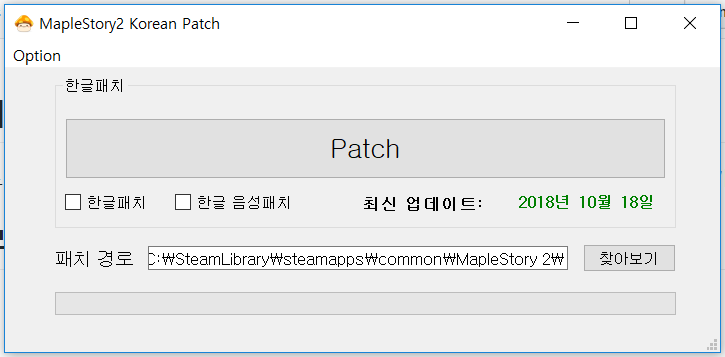
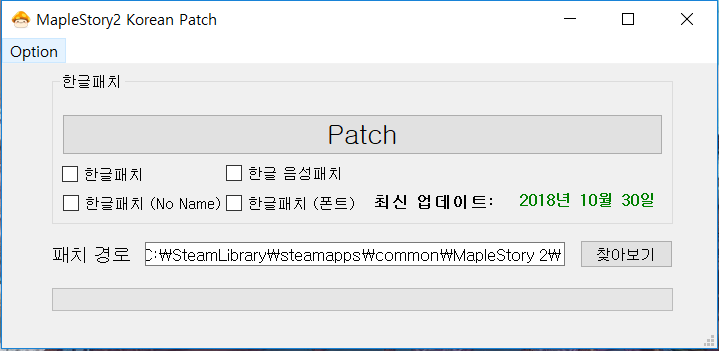
1.01 version update

diff --git a/main.py b/main.py
@@ -18,16 +18,19 @@ class PatchTread(QThread):
     change_message = pyqtSignal(str)
     change_visible = pyqtSignal(bool)
 
-    def __init__(self, directory, progress, kor_patch_checkBox, kor_sound_patch_checkBox, option_url, kor_patch_url, kor_sound_patch_url):
+    def __init__(self, directory, progress, kor_kind_patch_checkBox, patch_index, kor_sound_patch_checkBox, option_url, patch_url_list):
         QThread.__init__(self)
         self.setup_directory = directory + "Data\\"
         self.progress = progress
-        self.progress2 = 0
-        self.kor_patch = kor_patch_checkBox
+
+        self.kor_patch = kor_kind_patch_checkBox
         self.kor_sound_patch = kor_sound_patch_checkBox
+        self.kor_sound_boolean = False
+
         self.option_url = option_url
-        self.kor_patch_url = kor_patch_url
-        self.kor_sound_patch_url = kor_sound_patch_url
+        self.patch_url_list = patch_url_list
+
+        self.patch_index = patch_index
 
     def __del__(self):
         self.wait()
@@ -35,40 +38,35 @@ class PatchTread(QThread):
     def run(self):
         print("Setup_directory: " + self.setup_directory)
         print("option_url: " + self.option_url)
-        print("kor_patch_url: " + self.kor_patch_url)
-        print("kor_sound_patch_url: " + self.kor_sound_patch_url)
+        print("kor_patch_url: " + self.patch_url_list[0])
+        print("kor_noname_patch_url: " + self.patch_url_list[1])
+        print("kor_font_patch_url: " + self.patch_url_list[2])
+        print("kor_sound_patch_url: " + self.patch_url_list[3])
         self.change_visible.emit(False)
         self.download()
         self.change_visible.emit(True)
 
+    def download_url(self, url):
+        self.change_message.emit('파일 다운로드 중 ...')
+        urllib.request.urlretrieve(url, self.setup_directory + "kor_patch.zip",
+                                   reporthook=self.dlProgress)
+        self.patch_process(self.setup_directory)
+
+
     def download(self):
         if os.path.exists(self.setup_directory):
             if self.kor_patch.isChecked() and self.kor_sound_patch.isChecked():
-                self.change_message.emit('파일 다운로드 중 ...')
-                urllib.request.urlretrieve(self.kor_patch_url, self.setup_directory + "kor_patch.zip",
-                                           reporthook=self.dlProgress)
-                self.patch_process(self.setup_directory)
-                self.change_message.emit('파일 다운로드 중 ...')
-                urllib.request.urlretrieve(self.kor_sound_patch_url, self.setup_directory + "kor_patch.zip",
-                                           reporthook=self.dlProgress)
-                self.patch_process(self.setup_directory)
-
+                self.download_url(self.patch_url_list[self.patch_index])
+                self.kor_sound_boolean = True
+                self.download_url(self.patch_url_list[3])
                 self.progress = 100
                 self.change_value.emit(self.progress)
             elif self.kor_patch.isChecked():
-                self.change_message.emit('파일 다운로드 중 ...')
-                urllib.request.urlretrieve(self.kor_patch_url, self.setup_directory + "kor_patch.zip",
-                                           reporthook=self.dlProgress)
-                self.patch_process(self.setup_directory)
-
+                self.download_url(self.patch_url_list[self.patch_index])
                 self.progress = 100
                 self.change_value.emit(self.progress)
             elif self.kor_sound_patch.isChecked():
-                self.change_message.emit('파일 다운로드 중 ...')
-                urllib.request.urlretrieve(self.kor_sound_patch_url, self.setup_directory + "kor_patch.zip",
-                                           reporthook=self.dlProgress)
-                self.patch_process(self.setup_directory)
-
+                self.download_url(self.patch_url_list[3])
                 self.progress = 100
                 self.change_value.emit(self.progress)
         else:
@@ -76,21 +74,24 @@ class PatchTread(QThread):
 
     def dlProgress(self, count, blockSize, totalSize):
         # 다운로드 header 파일이 없을 경우 임의로 totalSize를 정해줌
+        language_totalSize = 130000000
+        sound_totalSize = 680000000
 
         if self.kor_patch.isChecked() and self.kor_sound_patch.isChecked():
-            # print(totalSize)
-            if totalSize >= 300000000:
-                percent = abs(int(count * blockSize * 100 / totalSize) / 2.4) + 42
+            if self.kor_sound_boolean:
+                percent = abs(int(count * blockSize * 100 / sound_totalSize) / 2.4) + 42
             else:
-                percent = abs(int(count * blockSize * 100 / totalSize) / 2.4)
-        else:
-            percent = abs(int(count * blockSize * 100 / totalSize) / 1.2)
+                percent = abs(int(count * blockSize * 100 / language_totalSize) / 2.4)
+        elif self.kor_patch.isChecked():
+            percent = abs(int(count * blockSize * 100 / language_totalSize) / 1.2)
+        elif self.kor_sound_patch.isChecked():
+            percent = abs(int(count * blockSize * 100 / sound_totalSize) / 1.2)
         # print(count, blockSize, totalSize, count * blockSize)
+
         while self.progress <= percent:
             self.progress += 1
             print("progress: ", self.progress)
             self.change_value.emit(self.progress)
-
 
     def patch_process(self, directory_):
         print("patch_process")
@@ -107,18 +108,23 @@ class PatchTread(QThread):
 
 form_class = uic.loadUiType("maplestory2.ui")[0]
 
+
 class MyWindow(QMainWindow, form_class):
     def __init__(self):
         super().__init__()
         self.setWindowIcon(QIcon('icon.png'))
-        self.version = "1.0"
-        self.kor_patch_url = "https://www.dropbox.com/s/scepv8sk3dd27er/Xml.zip?dl=1"
+        self.version = "1.01"
+        self.kor_patch_url = "https://drive.google.com/uc?export=download&id=1tw1_tzCViJkiXsrRepdwBuYK3g-KMJwF"
+        self.kor_noname_patch_url = "https://drive.google.com/uc?export=download&id=1yfXf--tfYAzvth9OWhCuEj3yAVTepMNt"
+        self.kor_font_patch_url = "https://drive.google.com/uc?export=download&id=1yNuTQSSSpnyU6h_udILEAwQuWFkXLNO6"
         self.kor_sound_patch_url = "https://www.dropbox.com/s/igfcrtkqcphivlb/Kor_sound2.zip?dl=1"
+        self.patch_url_list = [self.kor_patch_url, self.kor_noname_patch_url, self.kor_font_patch_url, self.kor_sound_patch_url]
+
         self.option_url = "https://drive.google.com/uc?authuser=0&id=14WlWEWAI-wyEQ3TEBqw13H-GJaPKlOTx&export=download"
         self.update_url = "https://drive.google.com/uc?authuser=0&id=1zzbO3PMyUyq1nk_KuBTJrH86992LSUQi&export=download"
         self.site_url = "https://hyrama.com/?p=598"
-        self.github_url = "https://github.com/lumyjuwon/MapleStory2_kor_patch"
-        self.check_Update()
+        self.github_url = "https://github.com/lumyjuwon/Maple2_kor_patch"
+        self.check_update()
 
         self.setupUi(self)
         self.setWindowTitle("MapleStory2 Korean Patch")
@@ -167,16 +173,31 @@ class MyWindow(QMainWindow, form_class):
             file.close()
             self.dir_edit.setText(dir_edit_text)
 
+    def confirm_checkBox(self):
+        checkBox_Checked_list = [self.kor_patch_checkBox.isChecked(), self.kor_noname_patch_checkBox.isChecked(),
+                        self.kor_font_patch_checkBox.isChecked()]
+        checkBox_list = [self.kor_patch_checkBox, self.kor_noname_patch_checkBox, self.kor_font_patch_checkBox]
+        index_checkBox = 0
+
+        count = 0
+        for checkBox in checkBox_Checked_list:
+            if checkBox:
+                index_checkBox = checkBox_Checked_list.index(checkBox)
+                count += 1
+
+        if count >= 2 or (self.kor_sound_patch_checkBox.isChecked() != True and count == 0):
+            return False, -1, -1
+        elif self.kor_sound_patch_checkBox.isChecked() or count == 1:
+            return True, checkBox_list[index_checkBox], index_checkBox
+
     def patch(self):
         self.progress = 0
         self.progressBar.setValue(self.progress)
-        self.get_thread = PatchTread(self.load_directory(), self.progress, self.kor_patch_checkBox,
-                                     self.kor_sound_patch_checkBox, self.option_url, self.kor_patch_url, self.kor_sound_patch_url)
-        self.save_dir(self.dir_edit.text())
-
-        if os.path.exists(self.load_directory()):
-
-            if self.kor_patch_checkBox.isChecked() or self.kor_sound_patch_checkBox.isChecked():
+        confirm_status = self.confirm_checkBox()
+        if confirm_status[0]:
+            self.get_thread = PatchTread(self.load_directory(), self.progress, confirm_status[1], confirm_status[2], self.kor_sound_patch_checkBox, self.option_url, self.patch_url_list)
+            self.save_dir(self.dir_edit.text())
+            if os.path.exists(self.load_directory()):
                 # self.connect(self.get_thread, SIGNAL("finished()"), self.done)
                 if (self.load_directory().find("MapleStory 2") == -1):
                     QMessageBox.about(self, "Error", "MapleStory 2 경로가 아닙니다")
@@ -187,23 +208,27 @@ class MyWindow(QMainWindow, form_class):
                     self.get_thread.change_visible.connect(self.find_dir_button.setEnabled)
                     self.get_thread.change_visible.connect(self.dir_edit.setEnabled)
                     self.get_thread.change_visible.connect(self.kor_patch_checkBox.setEnabled)
+                    self.get_thread.change_visible.connect(self.kor_noname_patch_checkBox.setEnabled)
+                    self.get_thread.change_visible.connect(self.kor_font_patch_checkBox.setEnabled)
                     self.get_thread.change_visible.connect(self.kor_sound_patch_checkBox.setEnabled)
                     self.get_thread.start()
             else:
-                QMessageBox.about(self, "Error", "한글패치 또는 한글 음성패치를 선택하세요")
-
+                QMessageBox.about(self, "Error", "이 경로에는 설치할 수 없습니다")
+                self.patch_button.setEnabled(True)
+                self.find_dir_button.setEnabled(True)
+                self.dir_edit.setEnabled(True)
         else:
-            QMessageBox.about(self, "Error", "이 경로에는 설치할 수 없습니다")
-            self.patch_button.setEnabled(True)
-            self.find_dir_button.setEnabled(True)
-            self.dir_edit.setEnabled(True)
+            QMessageBox.about(self, "Error", "한글패치(1개) 또는 한글 음성패치를 선택해 주시기 바랍니다")
 
-    def check_Update(self):
+
+    def check_update(self):
         urllib.request.urlretrieve(self.update_url, "MapleStory2_patch_version.txt")
         file = open("MapleStory2_patch_version.txt", 'r')
         list = []
+
         for i in file.readlines():
             list.append(i)
+
         version = list[0][0:3]
         compulsion_update = list[1]
         print("This Program Verrsion: " + self.version + "\nNew Version: " + version + "\n필수 업데이트: " + compulsion_update)
@@ -213,19 +238,17 @@ class MyWindow(QMainWindow, form_class):
         except:
             pass
 
-        if self.version == version:
-            print("최신 버전이 있습니다")
-        else:
-            if compulsion_update == "True":
-                print("필수 업데이트 진행")
-                update_MessageBox = QMessageBox.question(self, "알림", '새로운 버전이 발견됐습니다 업데이트를 진행하겠습니까 ?', QMessageBox.Yes | QMessageBox.No)
-                if update_MessageBox == QMessageBox.Yes:
-                    url = self.site_url
-                    webbrowser.open(url)
-                    sys.exit()
-                else:
-                    QMessageBox.about(self, "Alarm", "필수 업데이트가 필요합니다")
-                    sys.exit()
+        if float(version) > float(self.version) and compulsion_update == "True":
+            print("필수 업데이트 진행")
+            update_MessageBox = QMessageBox.question(self, "알림", '필수 업데이트가 필요합니다', QMessageBox.Yes | QMessageBox.No)
+            if update_MessageBox == QMessageBox.Yes:
+                url = self.site_url
+                webbrowser.open(url)
+                sys.exit()
+            if update_MessageBox == QMessageBox.No:
+                QMessageBox.about(self, "알림", "프로그램을 종료합니다")
+                sys.exit()
+
     def open_url(self, url):
         webbrowser.open(url)
 

diff --git a/crawling.py b/crawling.py
@@ -1,20 +1,32 @@
 from bs4 import BeautifulSoup
 import requests
 import re
+import json
+import urllib
+import os
 
 
 class Crawling:
     def parser_day(self):
-        url = "https://cors.io/?https://www.dropbox.com/s/25xodqbkn5r8dyz/updated.json?dl=1"
-        request = requests.get(url)
-        document = BeautifulSoup(request.content, 'html.parser')
-        document_ = str(document)
-        # print(document_)
-        regex = re.compile('"t_Gb":"(\d+/\d+/\d+)')
-        time_list = regex.findall(document_)[0].split('/')
-        time = time_list[2] + "년 " + time_list[1] + "월 " + time_list[0] + "일"
-        return time
+        try:
+            urllib.request.urlretrieve(
+                "https://drive.google.com/uc?export=download&id=1nhiBp_nKcJ5PfTIDr0CIQjoauJ4-1kRD", "update.json")
+            file = open('update.json')
+            data = str(json.load(file))
+            file.close()
 
+            try:
+                os.remove("update.json")
+            except:
+                pass
+
+            regex = re.compile("'t_Gb': '(\d+/\d+/\d+)")
+            print(data)
+            time_list = regex.findall(data)[0].split('/')
+            time = time_list[2] + "년 " + time_list[1] + "월 " + time_list[0] + "일"
+            return time
+        except:
+            return "Error"
 
     def download_url(selfs):
         url = "https://miyuyami.github.io/ms2_patches.html"
@@ -25,4 +37,4 @@ class Crawling:
 
 if __name__ == "__main__":
     test = Crawling()
-    test.download_url()
+    test.parser_day()
